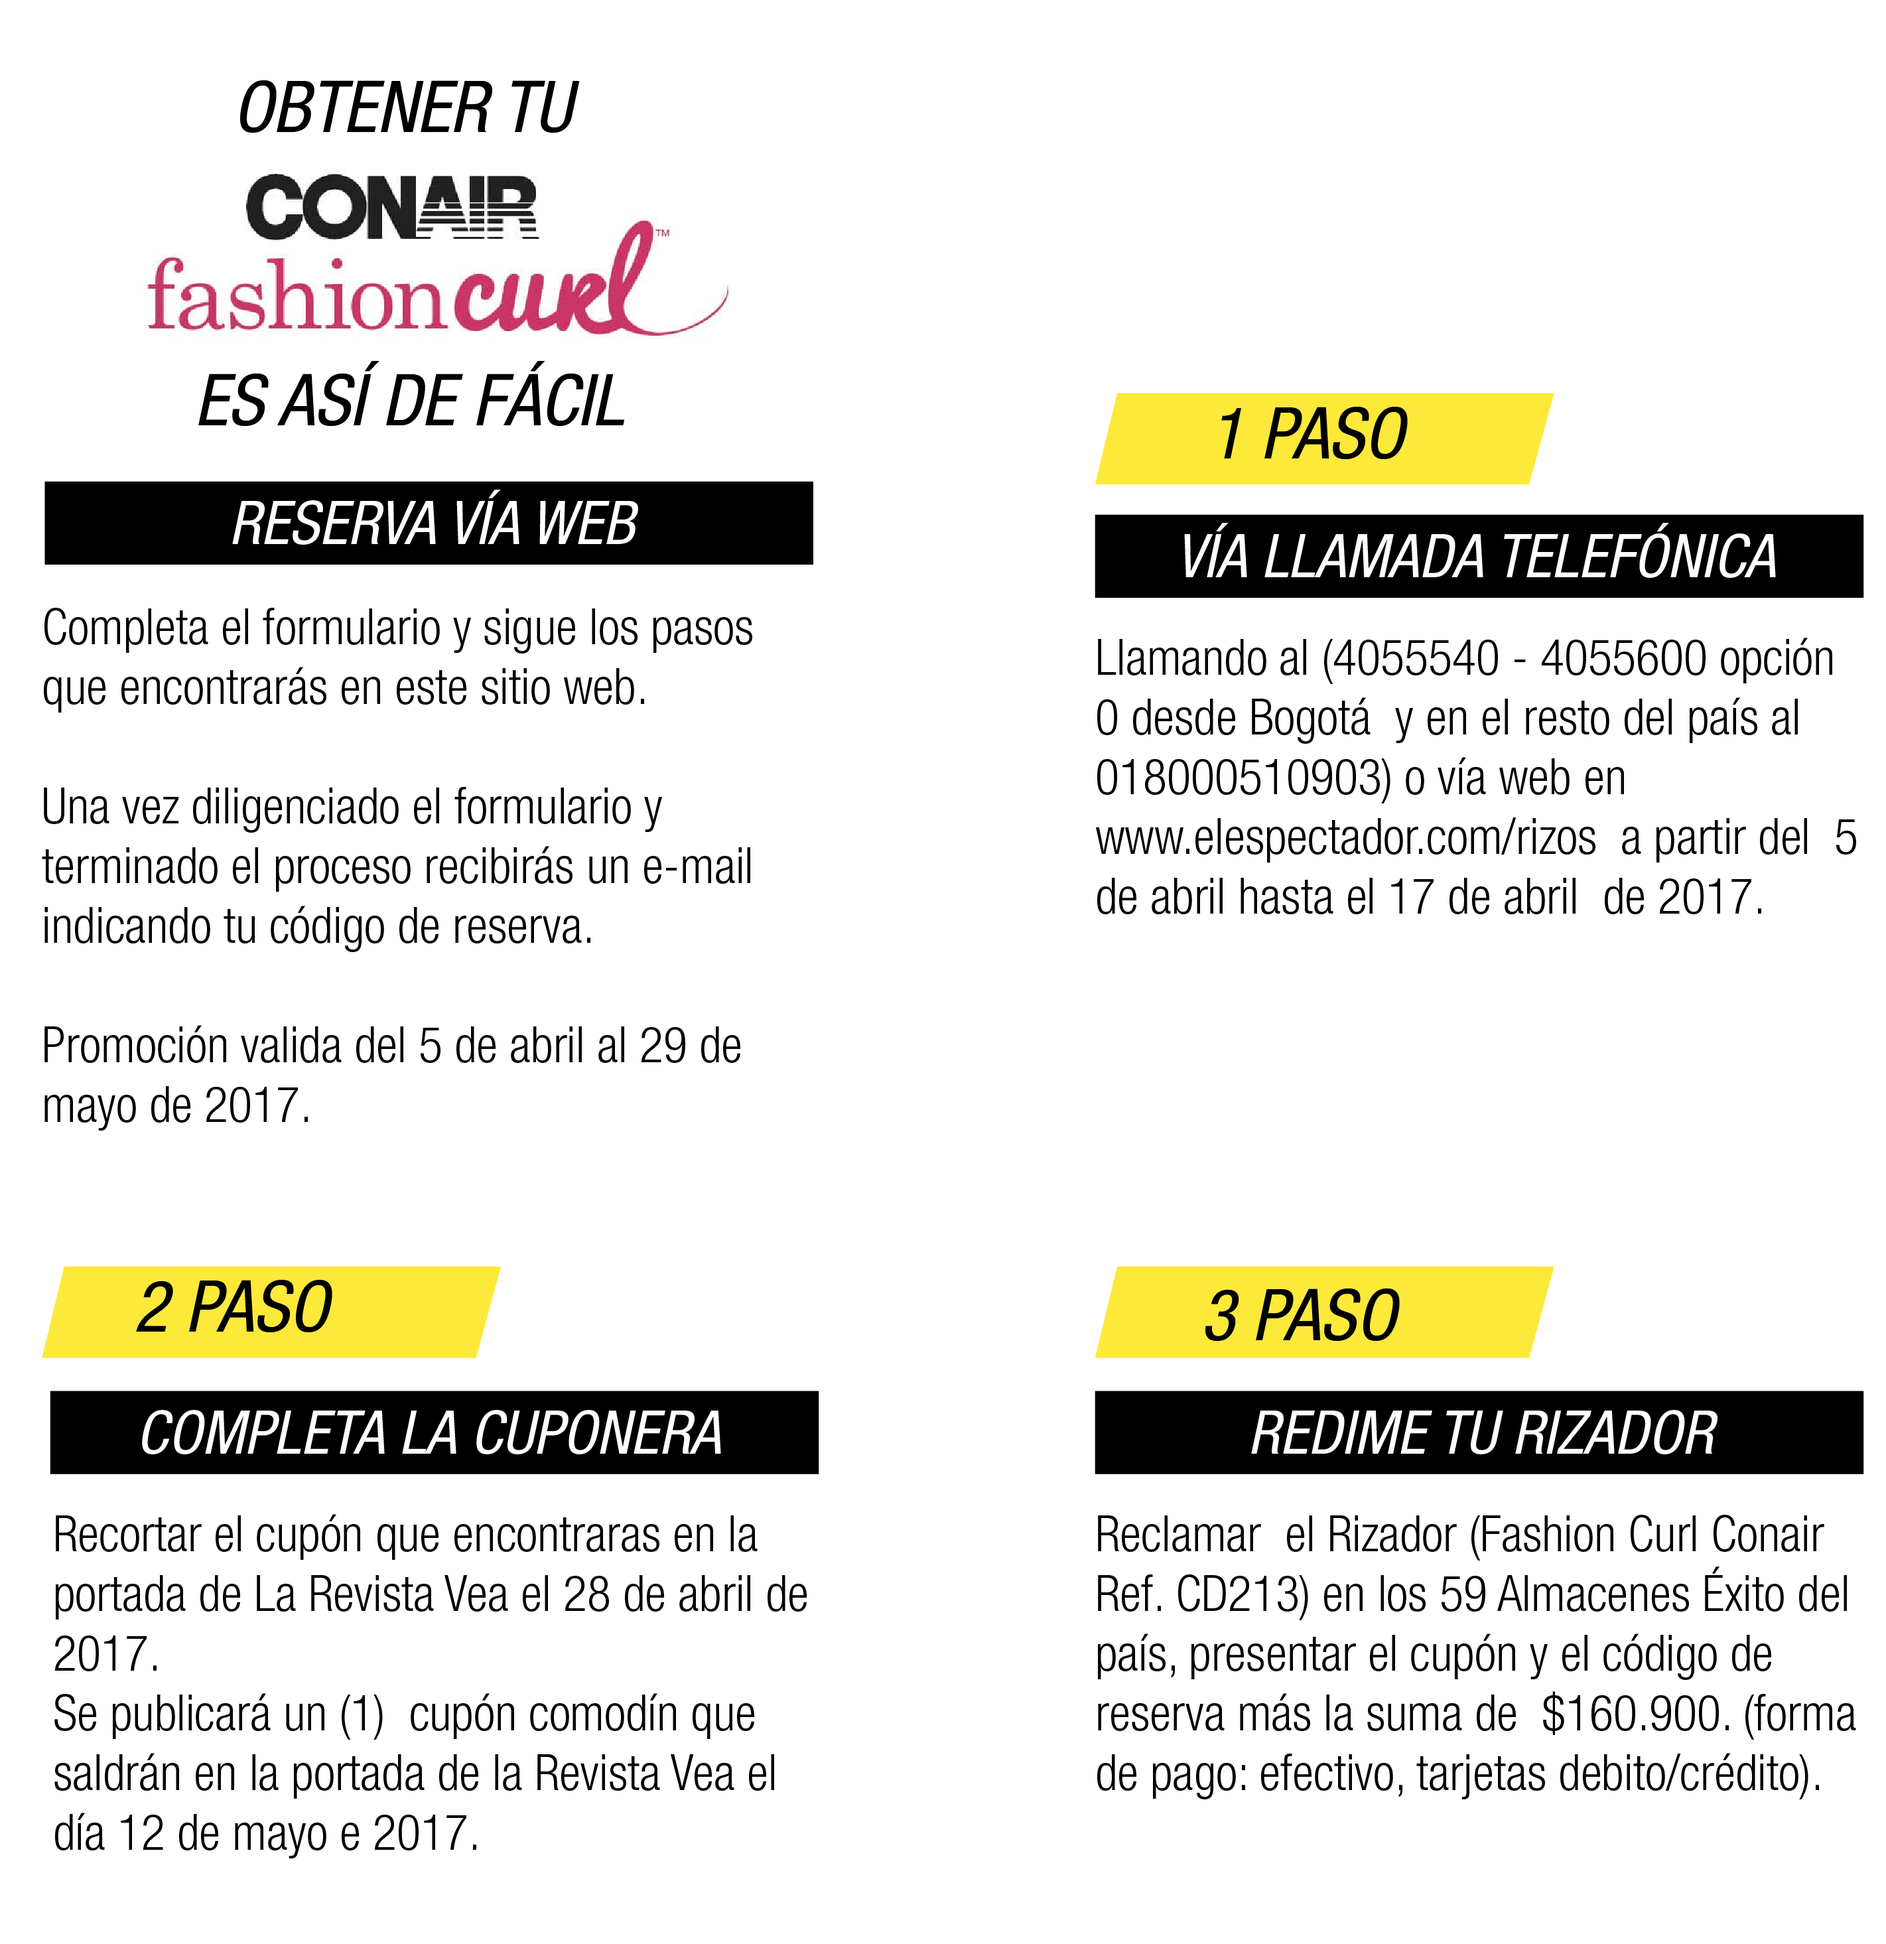
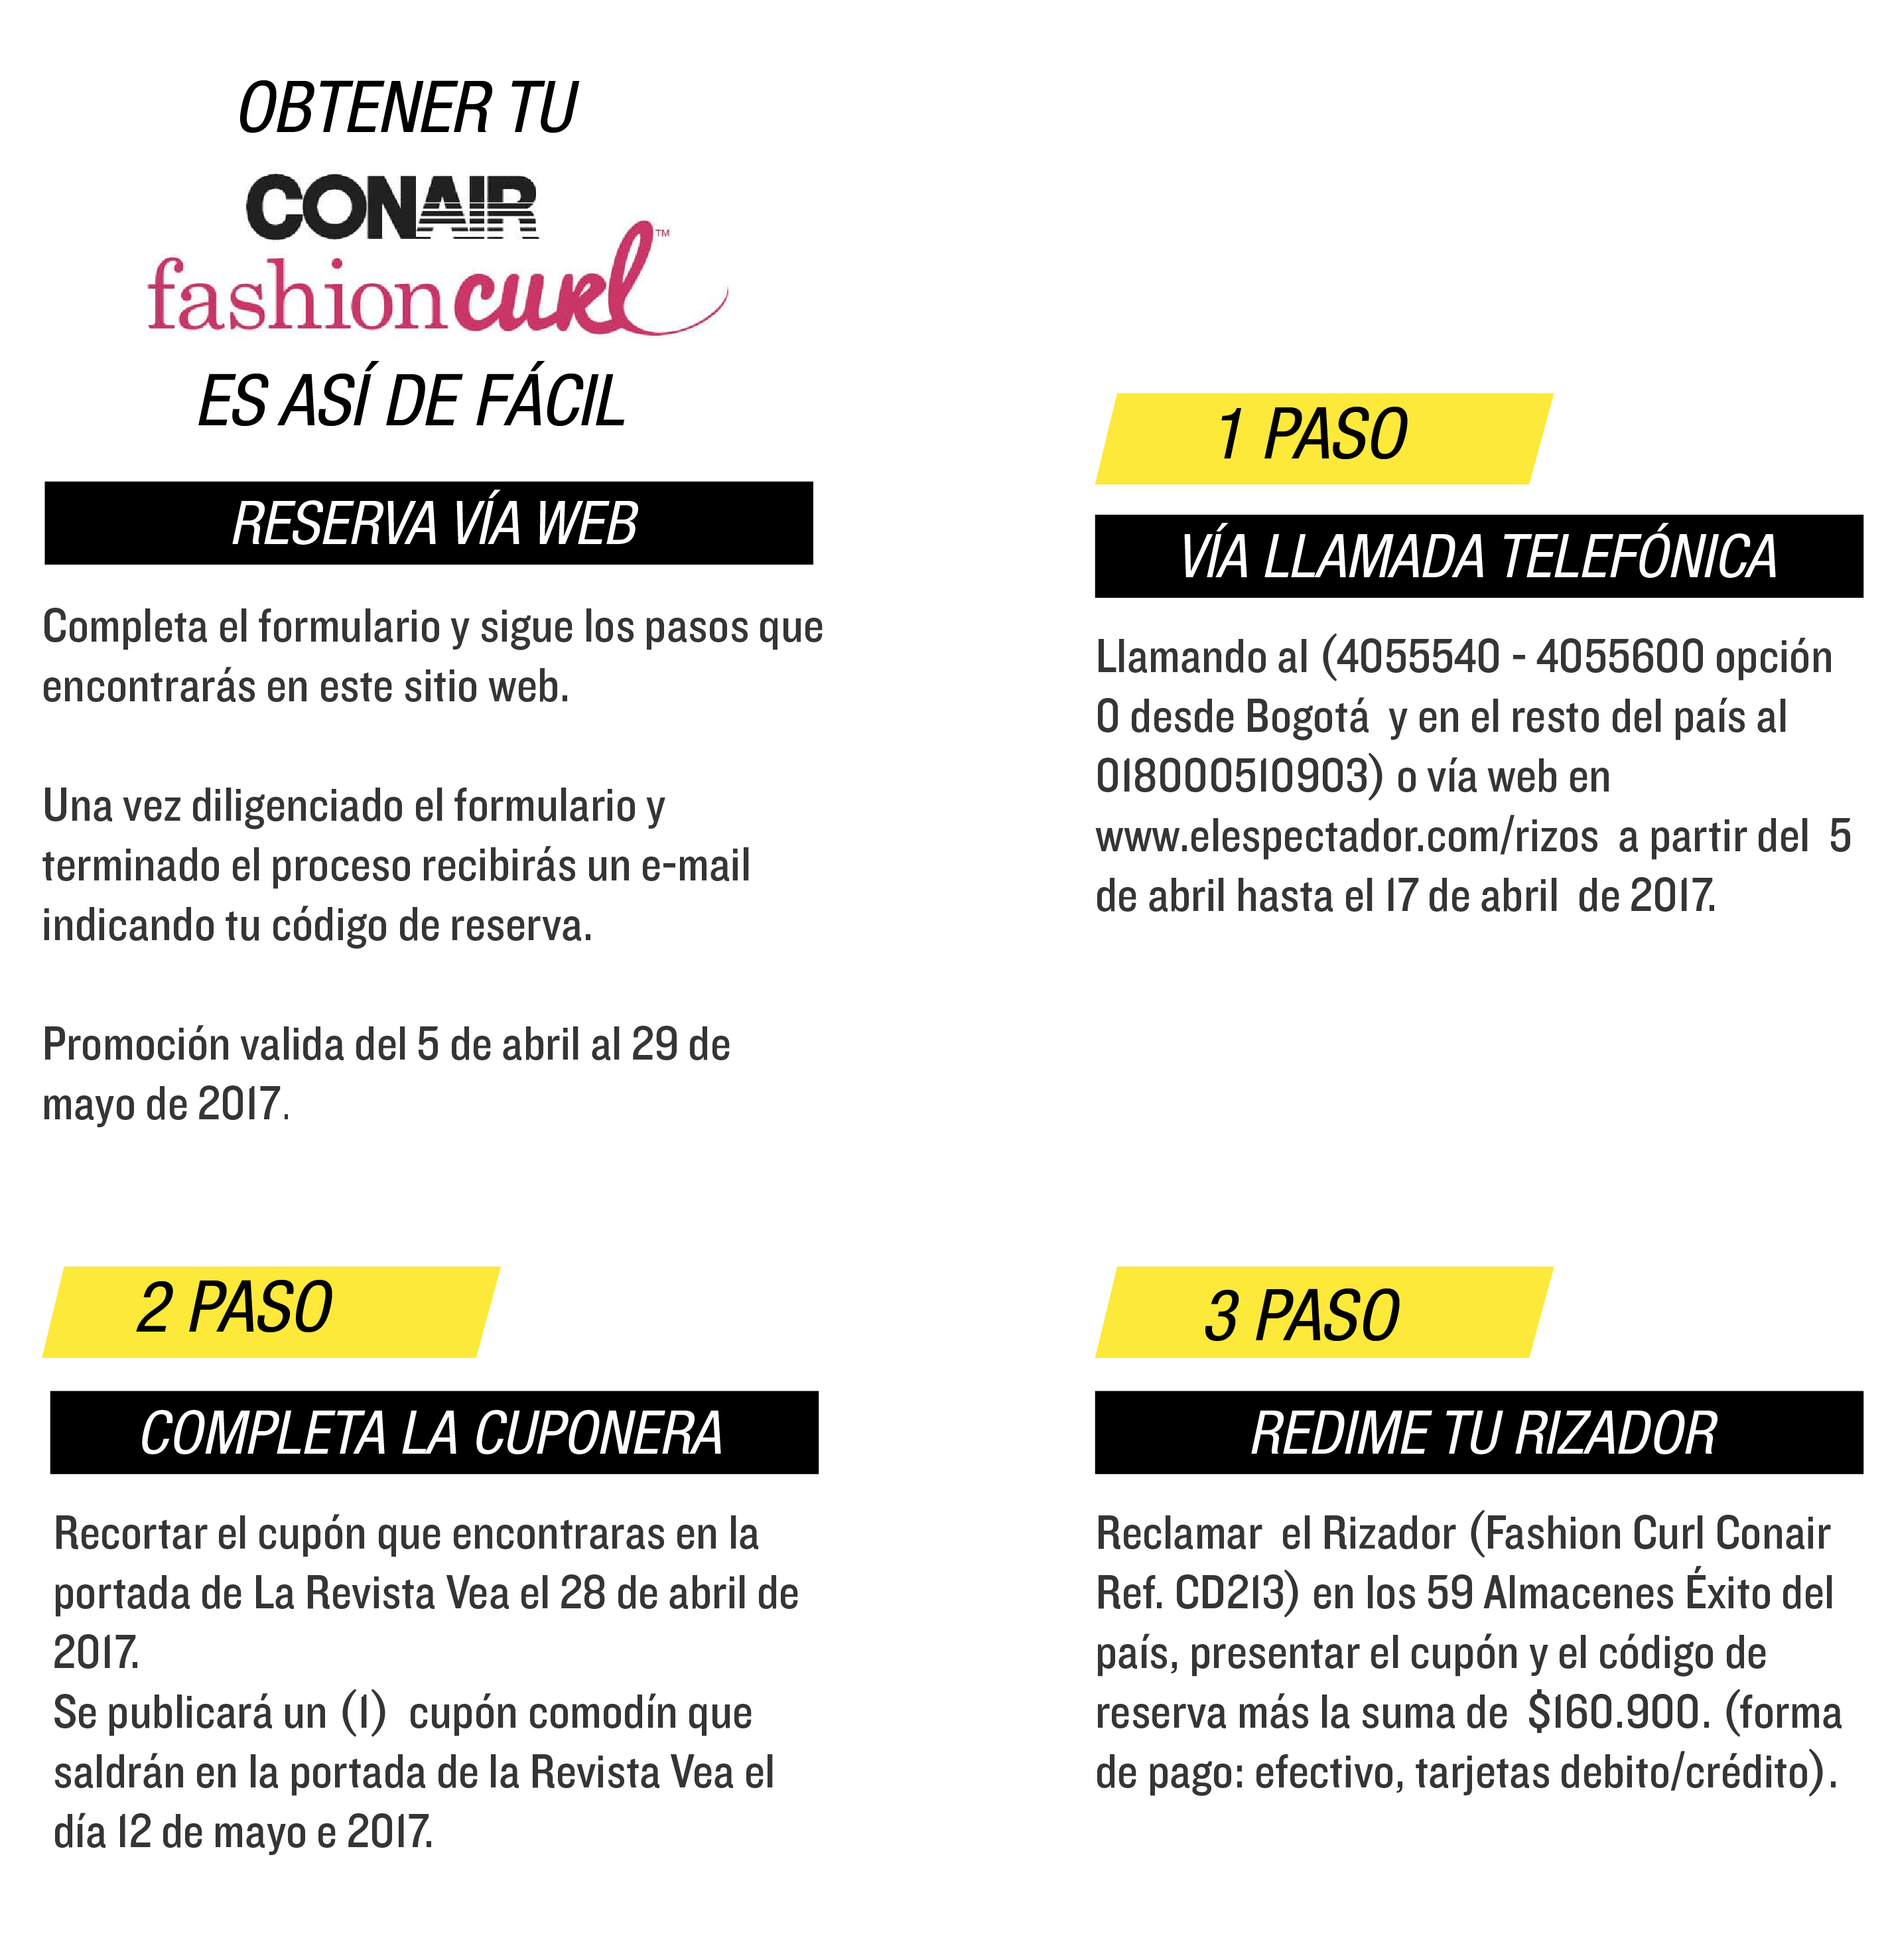
cmabie la pieza de pasos y el color del contenedor

diff --git a/RizadorMVC/css/estilos.css b/RizadorMVC/css/estilos.css
@@ -25,7 +25,7 @@ h3{
 	font-size: 40px;
     line-height: 38px;
     font-weight: 100;
-    font-family: "Knockout-HTF50-Welterweight_0.otf";
+    font-family: "ChampionsBold.otf";
     color: #38393a;
 
 }
@@ -99,11 +99,11 @@ header{
   margin: 0;
 }
   .nav li {
-    width: 120px;
+    width: 138px;
     border-bottom: none;
     height: 80px;
     line-height: 24px;
-    font-size: 1.2em;
+    font-size: 1.02em;
 
 
   }
@@ -121,7 +121,7 @@ header{
   color: #38393a;
   display: block;
   transition: .3s background-color;
-  font-family: "Knockout-HTF50-Welterweight_0.otf";
+  font-family: "ChampionsRegular.otf";
   margin-top: 40px;
 
 
@@ -151,10 +151,10 @@ header{
 
 
 #contenedor{
-	width: 80%;
+	width: 90%;
 	margin:0 auto;
 	height: auto;
-	background: rgba(0,0,0,0.5);
+	background: rgba(117,69,116,0.5);
 	overflow: hidden;
 	margin-top: 100px;
 }
@@ -176,7 +176,7 @@ header{
 }
 
 #homePromo{
-	margin-top: 100px;
+	margin-top: 290px;
 	position: absolute;
 }
 #homeBtn{

diff --git a/RizadorMVC/app/Vistas/secciones/instructivo.php b/RizadorMVC/app/Vistas/secciones/instructivo.php
@@ -1,5 +1,5 @@
 <h3 class="centrarTexto">CÓMO RESERVAR</h3>
       <p class="centrarTexto"> A continuación, encontrarás los pasos para hacer efectiva tu reserva</p>
       <div id="divInstructivo">
-        <img src="img/inst_reserva.jpg" alt="">
+        <img src="img/inst_reserva.png" alt="">
       </div>
